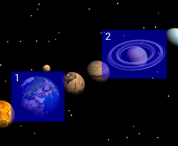
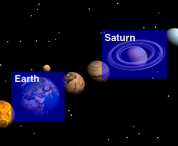
Allow editing region names in-place

Changed region(s): [[0.5899, 0.2192, 0.7584, 0.3014], [0.0843, 0.4932, 0.2247, 0.5753]]

diff --git a/extensions/objects/templates/ImageWithRegionsEditor.js b/extensions/objects/templates/ImageWithRegionsEditor.js
@@ -56,67 +56,80 @@ oppia.directive('imageWithRegionsEditor', [
 
           // Dynamically defines the CSS style for the region label.
           $scope.getRegionLabelStyle = function(index) {
+            var commonStyles = 'font-size: 14px; pointer-events: none;';
             if (index === $scope.selectedRegion) {
-              return 'fill: #eee; font-size: 14px; pointer-events: none;';
+              return commonStyles + 'fill: #eee; visibility: hidden;';
             } else {
-              return 'fill: #333; font-size: 14px; pointer-events: none;';
+              return commonStyles + 'fill: #333; visibility: visible;';
             }
           };
 
-          // All coordinates have origin at top-left,
-          // increasing in x to the right and increasing in y down
-          // Current mouse position in SVG coordinates
-          $scope.mouseX = 0;
-          $scope.mouseY = 0;
-          // Original mouse click position for rectangle drawing.
-          $scope.originalMouseX = 0;
-          $scope.originalMouseY = 0;
-          // Original position and dimensions for dragged rectangle.
-          $scope.originalRectArea = {
-            x: 0,
-            y: 0,
-            width: 0,
-            height: 0
-          };
-          // Coordinates for currently drawn rectangle (when user is dragging)
-          $scope.rectX = 0;
-          $scope.rectY = 0;
-          $scope.rectWidth = 0;
-          $scope.rectHeight = 0;
-          // Is user currently drawing a new region?
-          $scope.userIsCurrentlyDrawing = false;
-          // Is user currently dragging an existing region?
-          $scope.userIsCurrentlyDragging = false;
-          // Is user currently resizing an existing region?
-          $scope.userIsCurrentlyResizing = false;
-          // The horizontal direction along which user resize occurs.
-          // 1 -> Left     -1 -> Right     0 -> No resize
-          $scope.xDirection = 0;
-          // The vertical direction along which user resize occurs.
-          // 1 -> Top     -1 -> Bottom     0 -> No resize
-          $scope.yDirection = 0;
-          // Flags to check whether the direction changes while resizing.
-          $scope.yDirectionToggled = false;
-          $scope.xDirectionToggled = false;
-          // A boolean that is set whenever the cursor moves out of the
-          // rectangular region while resizing.
-          $scope.movedOutOfRegion = false;
-          // The region along borders which when hovered provides resize cursor.
-          $scope.resizableBorderWidthPx = 10;
-          // Dimensions of original image.
-          $scope.originalImageWidth = 0;
-          $scope.originalImageHeight = 0;
-          // Index of region currently hovered over.
-          $scope.hoveredRegion = null;
-          // Index of region currently selected.
-          $scope.selectedRegion = null;
-
-          // Temporary label list
-          var labelList = $scope.$parent.value.labeledRegions.map(
-            function(region) {
-              return region.label;
+          // Dynamically defines the CSS style for the region label text input.
+          $scope.getRegionLabelEditorStyle = function() {
+            if ($scope.selectedRegion === null) {
+              return 'display: none';
             }
-          );
+            var area = cornerAndDimensionsFromRegionArea(
+              $scope.$parent.value.labeledRegions[
+                $scope.selectedRegion].region.area);
+            return 'left: ' + (area.x + 6) + 'px; ' +
+              'top: ' + (area.y + 26) + 'px; ' +
+              'width: ' + (area.width - 12) + 'px;';
+          };
+
+          $scope.setInitialState = function() {
+            // All coordinates have origin at top-left,
+            // increasing in x to the right and increasing in y down
+            // Current mouse position in SVG coordinates
+            $scope.mouseX = 0;
+            $scope.mouseY = 0;
+            // Original mouse click position for rectangle drawing.
+            $scope.originalMouseX = 0;
+            $scope.originalMouseY = 0;
+            // Original position and dimensions for dragged rectangle.
+            $scope.originalRectArea = {
+              x: 0,
+              y: 0,
+              width: 0,
+              height: 0
+            };
+            // Coordinates for currently drawn rectangle (when user is dragging)
+            $scope.rectX = 0;
+            $scope.rectY = 0;
+            $scope.rectWidth = 0;
+            $scope.rectHeight = 0;
+            // Is user currently drawing a new region?
+            $scope.userIsCurrentlyDrawing = false;
+            // Is user currently dragging an existing region?
+            $scope.userIsCurrentlyDragging = false;
+            // Is user currently resizing an existing region?
+            $scope.userIsCurrentlyResizing = false;
+            // The horizontal direction along which user resize occurs.
+            // 1 -> Left     -1 -> Right     0 -> No resize
+            $scope.xDirection = 0;
+            // The vertical direction along which user resize occurs.
+            // 1 -> Top     -1 -> Bottom     0 -> No resize
+            $scope.yDirection = 0;
+            // Flags to check whether the direction changes while resizing.
+            $scope.yDirectionToggled = false;
+            $scope.xDirectionToggled = false;
+            // A boolean that is set whenever the cursor moves out of the
+            // rectangular region while resizing.
+            $scope.movedOutOfRegion = false;
+            // The region along borders which when hovered provides resize cursor.
+            $scope.resizableBorderWidthPx = 10;
+            // Dimensions of original image.
+            $scope.originalImageWidth = 0;
+            $scope.originalImageHeight = 0;
+            // Index of region currently hovered over.
+            $scope.hoveredRegion = null;
+            // Index of region currently selected.
+            $scope.selectedRegion = null;
+            // Message to displaye when there is an error.
+            $scope.errorText = '';
+          };
+
+          $scope.setInitialState();
 
           // Calculates the dimensions of the image, assuming that the width
           // of the image is scaled down to fit the svg element if necessary.
@@ -181,17 +194,20 @@ oppia.directive('imageWithRegionsEditor', [
           $scope.regionLabelGetterSetter = function(index) {
             return function(label) {
               if (angular.isDefined(label)) {
-                labelList[index] = label;
-                if (hasDuplicates(labelList)) {
-                  $scope.errorText = 'ERROR: Duplicate labels!';
+                $scope.$parent.value.labeledRegions[index].label = label;
+                var labels = $scope.$parent.value.labeledRegions.map(
+                  function(region) {
+                    return region.label;
+                  }
+                );
+                if (hasDuplicates(labels)) {
+                  $scope.errorText = 'Warning: Label "' + label + '" already ' +
+                    'exists! Please use a different label.';
                 } else {
                   $scope.errorText = '';
-                  for (var i = 0; i < labelList.length; i++) {
-                    $scope.$parent.value.labeledRegions[i].label = labelList[i];
-                  }
                 }
               }
-              return labelList[index];
+              return $scope.$parent.value.labeledRegions[index].label;
             };
           };
 
@@ -315,7 +331,6 @@ oppia.directive('imageWithRegionsEditor', [
               resizeRegion();
             }
           };
-
           $scope.onSvgMouseDown = function(evt) {
             evt.preventDefault();
             $scope.originalMouseX = $scope.mouseX;
@@ -325,7 +340,6 @@ oppia.directive('imageWithRegionsEditor', [
               $scope.userIsCurrentlyDrawing = true;
             }
           };
-
           $scope.onSvgMouseUp = function() {
             if ($scope.hoveredRegion === null) {
               $scope.selectedRegion = null;
@@ -370,7 +384,6 @@ oppia.directive('imageWithRegionsEditor', [
                   }
                 };
                 $scope.$parent.value.labeledRegions.push(newRegion);
-                labelList.push(newLabel);
                 $scope.selectedRegion = (
                   $scope.$parent.value.labeledRegions.length - 1);
               }
@@ -440,6 +453,10 @@ oppia.directive('imageWithRegionsEditor', [
                 $scope.hoveredRegion].region.area
             );
           };
+          $scope.regionLabelEditorMouseUp = function() {
+            $scope.userIsCurrentlyDragging = false;
+            $scope.userIsCurrentlyResizing = false;
+          };
           $scope.getCursorStyle = function() {
             var xDirectionCursor = '';
             var yDirectionCursor = '';
@@ -492,6 +509,7 @@ oppia.directive('imageWithRegionsEditor', [
             }).result.then(function() {
               $scope.$parent.value.imagePath = '';
               $scope.$parent.value.labeledRegions = [];
+              $scope.setInitialState();
             });
           };
           $scope.deleteRegion = function(index) {
@@ -506,7 +524,6 @@ oppia.directive('imageWithRegionsEditor', [
               $scope.hoveredRegion--;
             }
             $scope.$parent.value.labeledRegions.splice(index, 1);
-            labelList.splice(index, 1);
           };
         }
       ]

diff --git a/extensions/objects/templates/image_with_regions_editor.html b/extensions/objects/templates/image_with_regions_editor.html
@@ -4,7 +4,7 @@
     schema="{type: 'custom', obj_type: 'Filepath'}">
   </schema-based-editor>
 </div>
-<div ng-if="$parent.value.imagePath !== ''">
+<div style="position: relative" ng-if="$parent.value.imagePath !== ''">
   <div>Add new regions by clicking on the image and dragging:</div>
   <svg class="oppia-image-with-regions-editor-svg"
     width="100%"
@@ -56,21 +56,19 @@
     </text>
   </svg>
 
-  <div style="display: inline-block; float:right; margin-top:10px;" ng-if="selectedRegion !== null">
-    <input type="text" style="margin-left: 10px; height: 34px; width: 100px;"
-      ng-model="regionLabelGetterSetter(selectedRegion)"
-      ng-model-options="{getterSetter: true}">
-  </div>
+  <input type="text" ng-if="selectedRegion !== null"
+    class="region-label-editor"
+    ng-attr-style="<[getRegionLabelEditorStyle()]>"
+    ng-mouseup="regionLabelEditorMouseUp()"
+    ng-model="regionLabelGetterSetter(selectedRegion)"
+    ng-model-options="{getterSetter: true}">
 
-  <br><div style="color: red;"><[errorText]></div>
-  <br>
+  <div style="color: red; margin-bottom: 4px"><[errorText]></div>
   <button type="button" class="btn btn-danger" ng-click="resetEditor()">Clear Image and Regions</button>
 </div>
 <script type="text/ng-template" id="modals/imageRegionsResetConfirmation">    
   <div class="modal-header">
-    <h4 class="modal-title">
-      <span>Clear Image and Regions</span>
-    </h4>
+    <h4 class="modal-title"><span>Clear Image and Regions</span></h4>
   </div>
   <div class="modal-body">
     <span>This will remove the image and all regions. Are you sure?</span>
@@ -80,3 +78,15 @@
     <button type="button" ng-click="confirmClear()" class="btn btn-danger">Clear Image and Regions</button>
   </div>
 </script>
+<style type='text/css'>
+  input.region-label-editor {
+    position: absolute;
+    display: block;
+    margin: 0px;
+    padding: 0px 6px;
+    border: none;
+    background-color: rgba(0, 0, 0, 0.5);
+    font-size: 14px;
+    color: white;
+  }
+</style>
